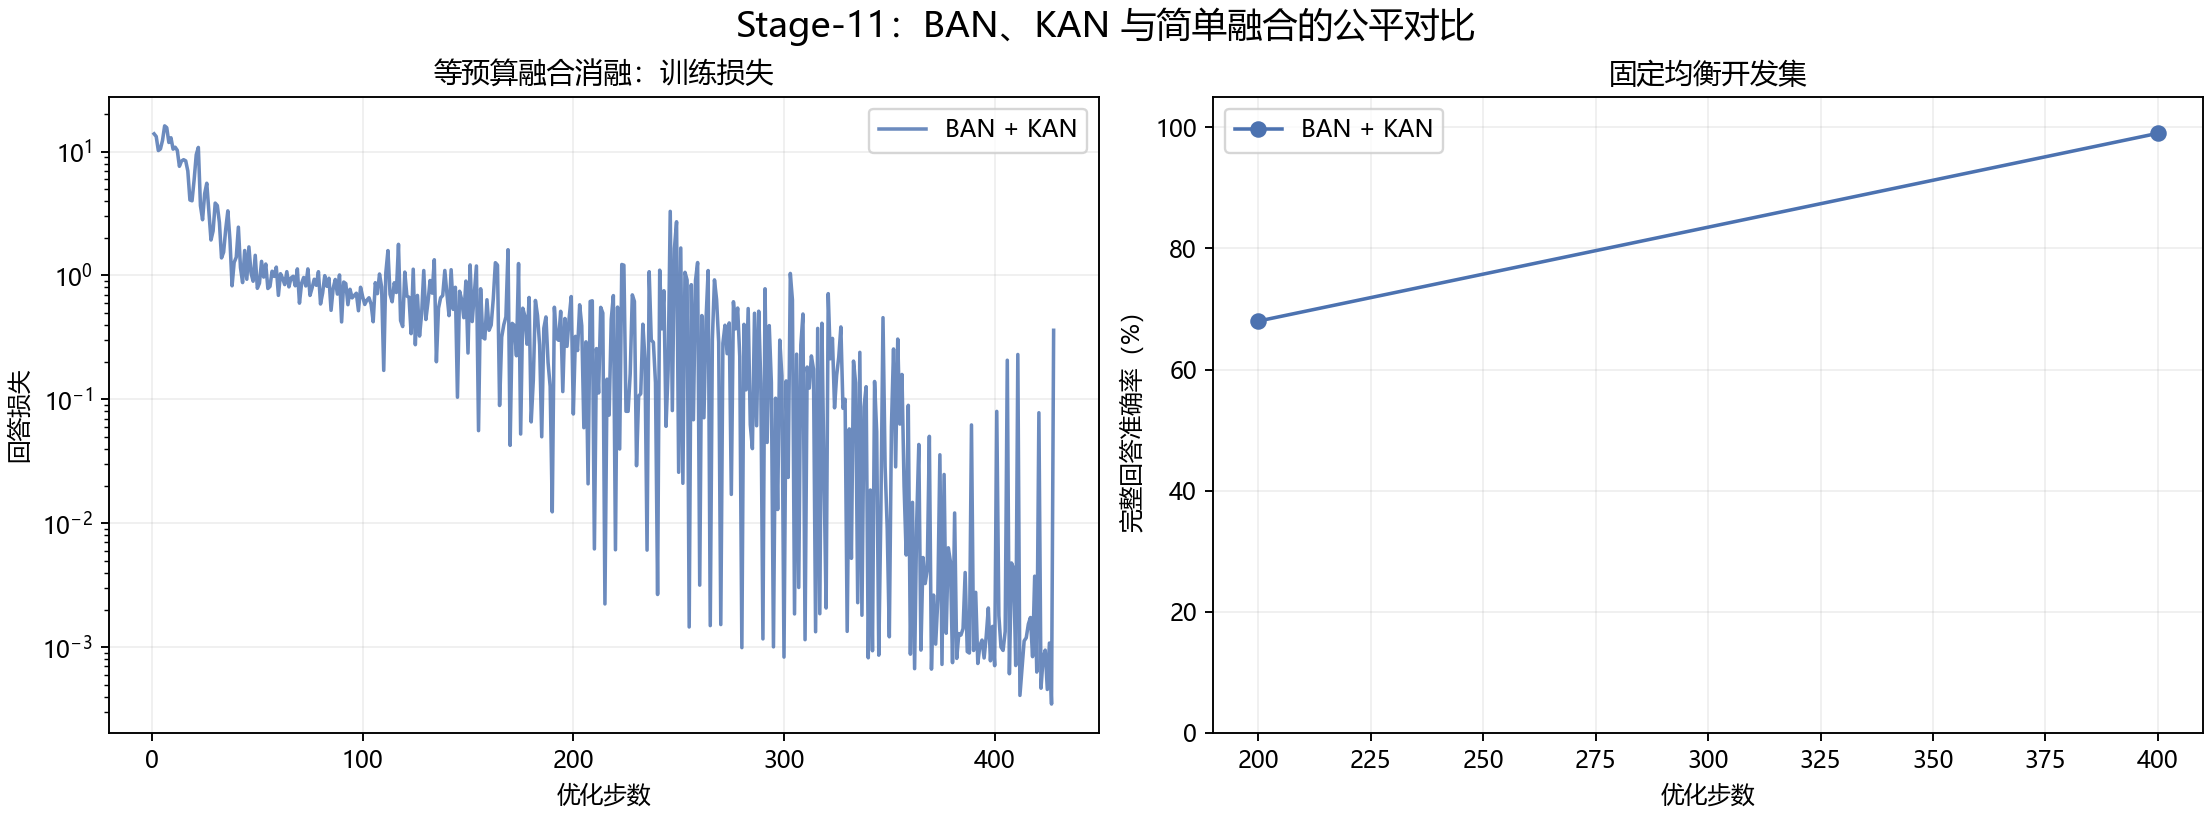
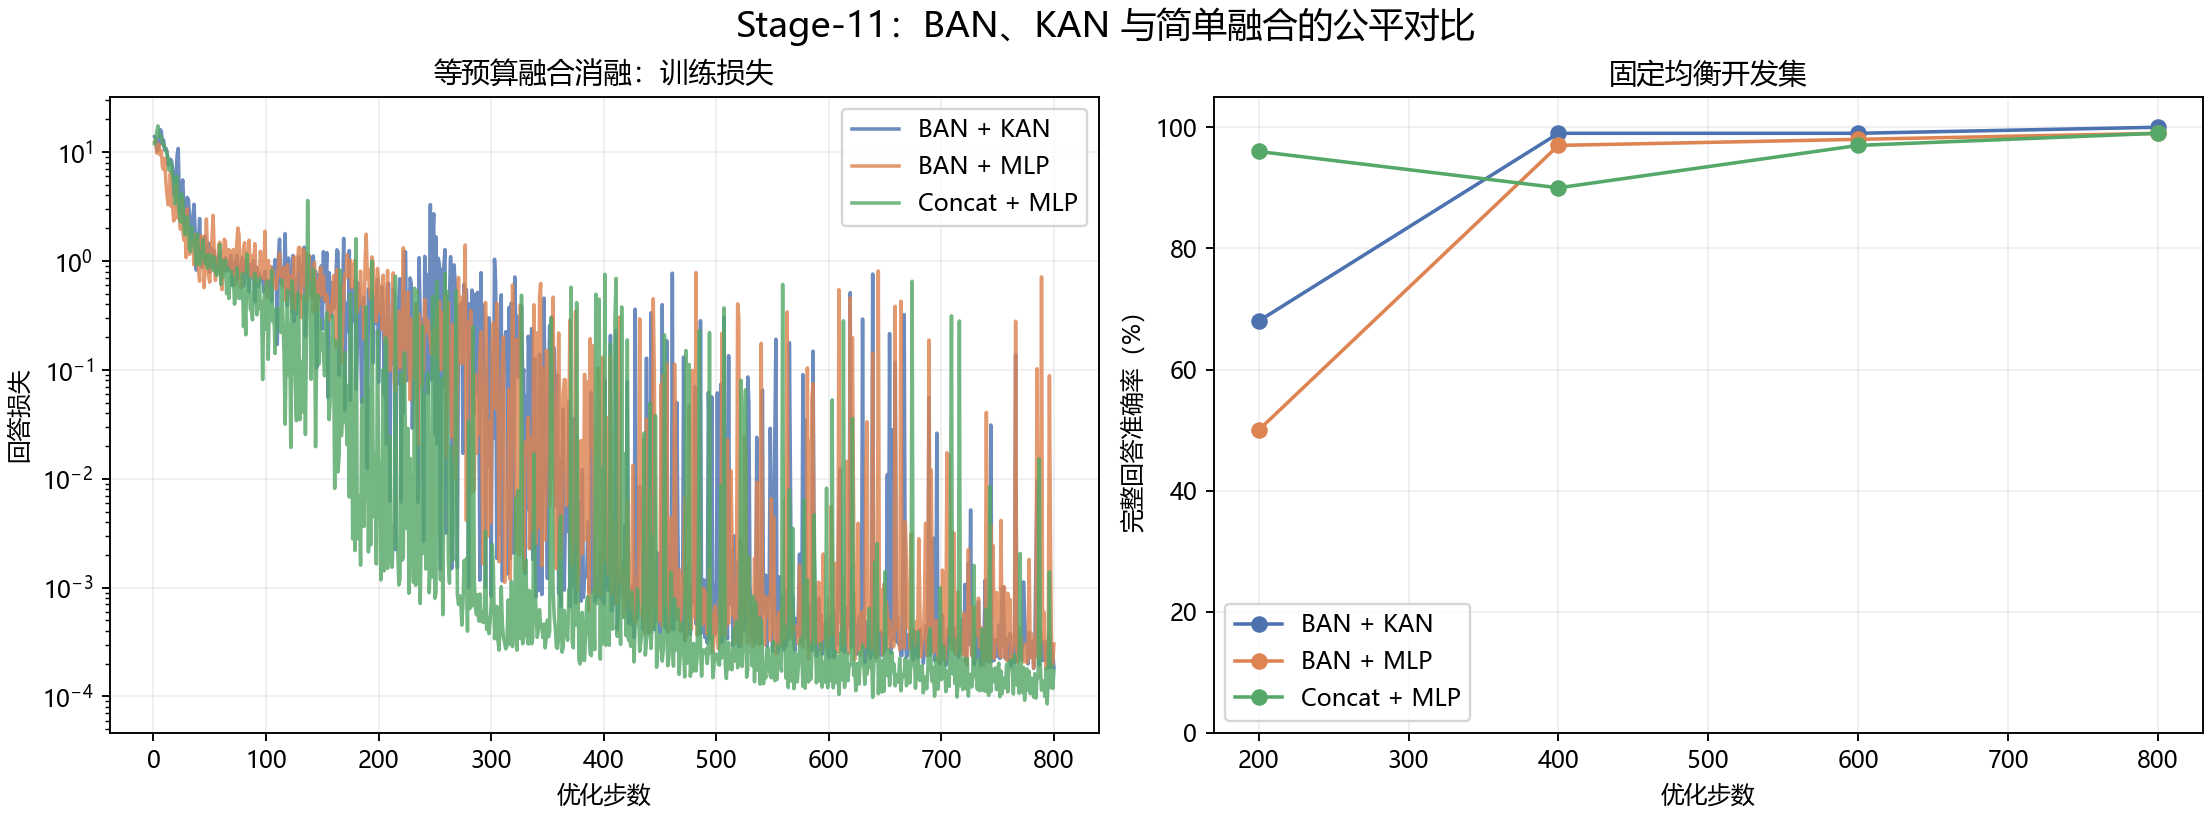
Complete Stage 11 fusion ablation

diff --git a/report_stage11.py b/report_stage11.py
@@ -2,6 +2,7 @@
 from __future__ import annotations
 
 import argparse
+import collections
 import json
 from datetime import datetime
 from pathlib import Path
@@ -44,12 +45,19 @@ def read_history(path: Path):
     return [by_step[step] for step in sorted(by_step)]
 
 
+def read_raw_history(path: Path):
+    if not path.exists():
+        return []
+    return [json.loads(line) for line in path.read_text(encoding="utf-8").splitlines() if line.strip()]
+
+
 def collect():
     variants = []
     for key, label in VARIANTS:
         run = RUNS / f"stage11_ablation_{key}"
         cfg_path, status_path, results_path = run / "config.json", run / "status.json", run / "results.json"
         latest_validation_path = run / "latest_validation.json"
+        raw_hist = read_raw_history(run / "history.jsonl")
         hist = read_history(run / "history.jsonl")
         checks = [row for row in hist if "validation" in row]
         cfg = read_json(cfg_path) if cfg_path.exists() else None
@@ -69,6 +77,7 @@ def collect():
                 "elapsed_seconds": hist[-1].get("seconds") if hist else None,
                 "config": cfg,
                 "history": hist,
+                "raw_history": raw_hist,
                 "validations": checks,
                 "status": status,
                 "results": results,
@@ -217,7 +226,7 @@ def write_progress(variants, now, diagnostics):
     (ROOT / "STAGE11_PROGRESS.md").write_text(body.rstrip() + "\n", encoding="utf-8")
     serializable = []
     for item in variants:
-        serializable.append({k: v for k, v in item.items() if k not in ("history", "config", "results")})
+        serializable.append({k: v for k, v in item.items() if k not in ("history", "raw_history", "config", "results")})
     snapshot = {"generated_at": now, "protocol": "STAGE11_ABLATION_PROTOCOL.json", "variants": serializable,
                 "latest_diagnostics": diagnostics}
     (OUT / "latest_snapshot.json").write_text(json.dumps(snapshot, ensure_ascii=False, indent=2), encoding="utf-8")
@@ -262,9 +271,97 @@ def plot_progress(variants):
     plt.close(fig)
 
 
+def recovery_audit(variants):
+    audited = []
+    for item in variants:
+        groups = collections.defaultdict(list)
+        for row in item["raw_history"]:
+            groups[int(row["step"])].append(row)
+        expected = set(range(1, item["target_steps"] + 1))
+        missing = sorted(expected - set(groups))
+        extra = sorted(set(groups) - expected)
+        duplicates = {step: rows for step, rows in groups.items() if len(rows) > 1}
+        spreads = {
+            step: max(row["loss"] for row in rows) - min(row["loss"] for row in rows)
+            for step, rows in duplicates.items()
+        }
+        duplicate_validation_steps = [
+            step for step, rows in duplicates.items() if sum("validation" in row for row in rows) > 1
+        ]
+        validation_steps = [row["step"] for row in item["validations"]]
+        expected_validations = list(range(200, item["target_steps"] + 1, 200))
+        passed = (
+            not missing and not extra and len(groups) == item["target_steps"]
+            and max(spreads.values(), default=0.0) == 0.0
+            and not duplicate_validation_steps and validation_steps == expected_validations
+            and item["completed"] and item["results"] and item["results"].get("test_accessed") is False
+        )
+        audited.append(
+            {
+                "variant": item["key"],
+                "passed": passed,
+                "raw_rows": len(item["raw_history"]),
+                "unique_steps": len(groups),
+                "missing_steps": missing,
+                "extra_steps": extra,
+                "duplicate_step_count": len(duplicates),
+                "duplicate_row_count": sum(len(rows) - 1 for rows in duplicates.values()),
+                "duplicate_step_range": [min(duplicates), max(duplicates)] if duplicates else None,
+                "max_duplicate_loss_spread": max(spreads.values(), default=0.0),
+                "duplicate_validation_steps": duplicate_validation_steps,
+                "validation_steps": validation_steps,
+                "test_accessed": item["results"].get("test_accessed") if item["results"] else None,
+            }
+        )
+    return {"all_passed": all(row["passed"] for row in audited), "variants": audited}
+
+
+def plot_final_comparison(variants):
+    FIGURES.mkdir(parents=True, exist_ok=True)
+    labels = [item["label"] for item in variants]
+    colors = ["#4c72b0", "#dd8452", "#55a868"]
+    best = [best_validation(item["validations"])["validation"] for item in variants]
+    controls = [
+        {row["variant"]: row for row in item["results"]["validation_controls"]}
+        for item in variants
+    ]
+    fig, axes = plt.subplots(1, 3, figsize=(16, 5), layout="constrained")
+    bars = axes[0].bar(labels, [row["loss"] for row in best], color=colors)
+    axes[0].bar_label(bars, fmt="%.4f")
+    axes[0].set(title="最佳开发验证损失", ylabel="回答损失", yscale="log")
+    axes[0].grid(axis="y", alpha=0.2)
+    bars = axes[1].bar(labels, [100 * row["exact_match"] for row in best], color=colors)
+    axes[1].bar_label(bars, fmt="%.1f%%")
+    axes[1].set(title="最佳完整回答准确率", ylabel="准确率（%）", ylim=(90, 101.5))
+    axes[1].grid(axis="y", alpha=0.2)
+    x = list(range(len(labels)))
+    width = 0.24
+    for offset, key, name, color in [(-width, "correct", "正确特征", "#4c72b0"),
+                                      (0, "wrong_class", "错配特征", "#dd8452"),
+                                      (width, "zero", "零特征", "#999999")]:
+        values = [100 * control[key]["exact_match"] for control in controls]
+        axes[2].bar([value + offset for value in x], values, width, label=name, color=color)
+    axes[2].set_xticks(x, labels)
+    axes[2].set(title="最佳检查点视觉依赖控制", ylabel="准确率（%）", ylim=(0, 105))
+    axes[2].legend()
+    axes[2].grid(axis="y", alpha=0.2)
+    for axis in axes:
+        axis.tick_params(axis="x", rotation=15)
+    fig.suptitle("Stage-11 等预算融合消融最终比较", fontsize=15)
+    fig.savefig(FIGURES / "final_comparison.png", dpi=170)
+    plt.close(fig)
+
+
 def write_final(variants):
     if not all(item["completed"] and item["results"] for item in variants):
         return False
+    audit = recovery_audit(variants)
+    if not audit["all_passed"]:
+        raise RuntimeError("Stage-11 recovery audit failed; refusing final report")
+    (ROOT / "STAGE11_RECOVERY_AUDIT.json").write_text(
+        json.dumps(audit, ensure_ascii=False, indent=2) + "\n", encoding="utf-8"
+    )
+    plot_final_comparison(variants)
     summary_rows, control_rows = [], []
     for item in variants:
         best = best_validation(item["validations"])
@@ -281,6 +378,19 @@ def write_final(variants):
             [item["label"]]
             + [f'{100 * controls[key]["exact_match"]:.2f}%' for key in ("correct", "wrong_class", "zero")]
         )
+    winner = min(variants, key=lambda item: (
+        best_validation(item["validations"])["validation"]["loss"],
+        -best_validation(item["validations"])["validation"]["exact_match"],
+    ))
+    winner_best = best_validation(winner["validations"])["validation"]
+    audit_rows = [
+        [
+            next(item["label"] for item in variants if item["key"] == row["variant"]),
+            row["raw_rows"], row["unique_steps"], row["duplicate_row_count"],
+            f'{row["max_duplicate_loss_spread"]:.1f}', "通过" if row["passed"] else "失败",
+        ]
+        for row in audit["variants"]
+    ]
     report = f"""# Stage-11：双视觉融合模块的等预算消融
 
 ## 实验问题
@@ -293,20 +403,33 @@ def write_final(variants):
 
 {markdown_table(['结构', '最佳步数', '最佳验证损失', '完整回答准确率', '可训练参数', '训练耗时'], summary_rows)}
 
+![最终融合消融比较](figures/stage11/final_comparison.png)
+
+按预先冻结的“最低验证损失，其次最高完整回答准确率”规则，胜出结构为**{winner['label']}**：第{winner['results']['best_step']}步验证损失{winner_best['loss']:.6f}、准确率{100 * winner_best['exact_match']:.2f}%。相较BAN+MLP，它增加{winner['config']['parameters']['trainable_parameters'] - variants[1]['config']['parameters']['trainable_parameters']:,}个可训练参数；相较Concat+MLP增加{winner['config']['parameters']['trainable_parameters'] - variants[2]['config']['parameters']['trainable_parameters']:,}个。
+
 ## 视觉依赖控制
 
 {markdown_table(['结构', '正确视觉特征', '错配类别特征', '零视觉特征'], control_rows)}
 
 正确特征高、错配特征与零特征低，才能说明回答依赖视觉输入，而不是只由问题模板或语言先验决定。具体预测和目标保留在各运行目录的 `results.json` 中。
 
+## 恢复轨迹审计
+
+{markdown_table(['结构', '原始日志行', '唯一训练步', '重算行', '重算损失最大差异', '结论'], audit_rows)}
+
+BAN+KAN和BAN+MLP在任务计划恢复时重算了最近检查点之后的少量步骤；所有重算步损失逐值一致，验证点没有重复，去重后均完整覆盖1–800。Concat+MLP没有重复步骤。详细机器可读证据见`STAGE11_RECOVERY_AUDIT.json`。
+
 ## 结论边界
 
-Stage-11 是开发集消融，不能当成新的盲测结果。Stage-10 最终测试集已被消费，本阶段没有再次读取它，也不使用它选择结构。视觉编码器使用 ImageNet 预训练权重，Imagenette 属于 ImageNet 子集，因此这些结果不能支持“视觉主干从未见过同分布数据”的说法。实现是论文结构的独立近似复现，不是作者权重或私有训练流程的精确回放。
+Stage-11 是开发集消融，不能当成新的盲测结果。三种结构只运行一个训练随机种子，且开发集只有100张图；1个百分点的准确率差异不足以单独支持统计显著性结论。较低验证损失支持在当前配置下选择BAN+KAN，但不能证明BAN或KAN在其他任务、数据和信道中必然更优。Stage-10最终测试集已被消费，本阶段没有再次读取它，也不使用它选择结构。视觉编码器使用ImageNet预训练权重，Imagenette属于ImageNet子集，因此这些结果不能支持“视觉主干从未见过同分布数据”的说法。实现是论文结构的独立近似复现，不是作者权重或私有训练流程的精确回放。
 """
     (ROOT / "STAGE11_ABLATION_REPORT.md").write_text(report, encoding="utf-8")
     final = {
         "protocol": "STAGE11_ABLATION_PROTOCOL.json",
         "all_completed": True,
+        "selected_variant": winner["key"],
+        "selection_rule": "minimum validation loss, then maximum exact match",
+        "recovery_audit": audit,
         "test_accessed": False,
         "variants": [
             {

diff --git a/STAGE11_ABLATION_REPORT.md b/STAGE11_ABLATION_REPORT.md
@@ -1,0 +1,46 @@
+# Stage-11：双视觉融合模块的等预算消融
+
+## 实验问题
+
+本阶段检验论文近似结构中的 BAN 和 KAN 是否在相同数据、随机种子、优化器、LoRA 配置、语义信道维度和 800 步训练预算下带来可测收益。比较 BAN+KAN、BAN+MLP、Concat+MLP 三种融合器。所有模型选择只使用固定的 100 张十类均衡开发图像。
+
+![训练与开发验证曲线](figures/stage11/progress.png)
+
+## 主要结果
+
+| 结构 | 最佳步数 | 最佳验证损失 | 完整回答准确率 | 可训练参数 | 训练耗时 |
+|---|---|---|---|---|---|
+| BAN + KAN | 800 | 0.001940 | 100.00% | 2,232,128 | 0.61 h |
+| BAN + MLP | 800 | 0.007914 | 99.00% | 2,150,400 | 0.61 h |
+| Concat + MLP | 800 | 0.010666 | 99.00% | 2,125,504 | 0.34 h |
+
+
+![最终融合消融比较](figures/stage11/final_comparison.png)
+
+按预先冻结的“最低验证损失，其次最高完整回答准确率”规则，胜出结构为**BAN + KAN**：第800步验证损失0.001940、准确率100.00%。相较BAN+MLP，它增加81,728个可训练参数；相较Concat+MLP增加106,624个。
+
+## 视觉依赖控制
+
+| 结构 | 正确视觉特征 | 错配类别特征 | 零视觉特征 |
+|---|---|---|---|
+| BAN + KAN | 100.00% | 0.00% | 10.00% |
+| BAN + MLP | 99.00% | 0.00% | 10.00% |
+| Concat + MLP | 99.00% | 0.00% | 8.00% |
+
+
+正确特征高、错配特征与零特征低，才能说明回答依赖视觉输入，而不是只由问题模板或语言先验决定。具体预测和目标保留在各运行目录的 `results.json` 中。
+
+## 恢复轨迹审计
+
+| 结构 | 原始日志行 | 唯一训练步 | 重算行 | 重算损失最大差异 | 结论 |
+|---|---|---|---|---|---|
+| BAN + KAN | 805 | 800 | 5 | 0.0 | 通过 |
+| BAN + MLP | 857 | 800 | 57 | 0.0 | 通过 |
+| Concat + MLP | 800 | 800 | 0 | 0.0 | 通过 |
+
+
+BAN+KAN和BAN+MLP在任务计划恢复时重算了最近检查点之后的少量步骤；所有重算步损失逐值一致，验证点没有重复，去重后均完整覆盖1–800。Concat+MLP没有重复步骤。详细机器可读证据见`STAGE11_RECOVERY_AUDIT.json`。
+
+## 结论边界
+
+Stage-11 是开发集消融，不能当成新的盲测结果。三种结构只运行一个训练随机种子，且开发集只有100张图；1个百分点的准确率差异不足以单独支持统计显著性结论。较低验证损失支持在当前配置下选择BAN+KAN，但不能证明BAN或KAN在其他任务、数据和信道中必然更优。Stage-10最终测试集已被消费，本阶段没有再次读取它，也不使用它选择结构。视觉编码器使用ImageNet预训练权重，Imagenette属于ImageNet子集，因此这些结果不能支持“视觉主干从未见过同分布数据”的说法。实现是论文结构的独立近似复现，不是作者权重或私有训练流程的精确回放。

diff --git a/README.md b/README.md
@@ -1,6 +1,6 @@
 # TokCom 与 TaiChi：复现工程
 
-**第十一阶段等预算融合消融正在运行：** 已冻结BAN+KAN、BAN+MLP、Concat+MLP三组公平对比协议，每组使用同一8,000张训练图、固定100张均衡开发图、800步和有效批量8。首次BAN+KAN运行在产生正式验证与检查点之前意外停止，已作为中断诊断归档并排除出比较。恢复版每50步保存优化器、调度器、RNG和可训练权重，由Windows任务计划程序托管并在异常退出后从最近检查点继续；每200步验证的科学协议和总预算不变。四小时任务更新[STAGE11_PROGRESS.md](STAGE11_PROGRESS.md)与`figures/stage11/progress.png`，三组完成后生成`STAGE11_ABLATION_REPORT.md`。本阶段不读取已经消费的Stage-10最终测试集。
+**第十一阶段等预算融合消融已完成：** BAN+KAN、BAN+MLP、Concat+MLP均使用同一8,000张训练图、100张均衡开发图、800步和有效批量8。按冻结的最低验证损失规则，BAN+KAN以0.001940和100%胜出；BAN+MLP为0.007914/99%，Concat+MLP为0.010666/99%。三者错配视觉特征均为0%，零特征为8%–10%。恢复审计证明三组都完整覆盖1–800步，重算步损失逐值一致，Stage-10最终测试集未读取。详见[STAGE11_ABLATION_REPORT.md](STAGE11_ABLATION_REPORT.md)、[STAGE11_RECOVERY_AUDIT.json](STAGE11_RECOVERY_AUDIT.json)和[STAGE11_PROGRESS.md](STAGE11_PROGRESS.md)。
 
 **统一通信开销已完成可执行核算：** [COMMUNICATION_BUDGET_REPORT.md](COMMUNICATION_BUDGET_REPORT.md)分别报告离散token源码率、CRC/FEC后的编码比特和复信道符号，并明确连续TaiChi语义向量在没有量化器时不能换算为bpp。公开VQGAN规格配合当前参考数字链路为2,560源比特、7,936编码比特和1,984个复符号；Stage-10/11 TaiChi为1,024个实信道值，即512个复符号。两条链路任务不同，该数值只用于工程核算，不作为性能优劣结论。
 

diff --git a/STAGE11_PROGRESS.md b/STAGE11_PROGRESS.md
@@ -1,23 +1,23 @@
 # Stage-11 四小时推进快照
 
-- 生成时间：2026-10-05T12:50:41+08:00
+- 生成时间：2026-10-05T20:07:29+08:00
 - 协议：`STAGE11_ABLATION_PROTOCOL.json`
 - 数据边界：仅使用训练集与固定开发验证集；Stage-10 最终测试集不参与结构选择。
 
 | 结构 | 状态 | 步数 | 最近训练损失 | 当前最佳验证损失 | 当前最佳准确率 |
 |---|---|---|---|---|---|
-| BAN + KAN | 训练中 | 428/800 | 0.360941 | 0.009316 | 99.00% |
-| BAN + MLP | 等待自动接力 | 0/800 | — | — | — |
-| Concat + MLP | 等待自动接力 | 0/800 | — | — | — |
+| BAN + KAN | 完成 | 800/800 | 0.000183 | 0.001940 | 100.00% |
+| BAN + MLP | 完成 | 800/800 | 0.000302 | 0.007914 | 99.00% |
+| Concat + MLP | 完成 | 800/800 | 0.000171 | 0.010666 | 99.00% |
 
 
-下一动作：继续 BAN + KAN 至第 800 步；每 200 步固定开发验证。
+下一动作：三组实验已结束，生成最终公平消融报告。
 
 该快照是运行状态证据。只有 `status.json` 中 `completed=true` 才计为该结构完成；训练中间结果不用于提前改变冻结预算。
 
 ## 最近一次固定开发验证
 
-结构：BAN + KAN；步数：400；损失：0.009316；完整回答准确率：99.00%。
+结构：Concat + MLP；步数：800；损失：0.010666；完整回答准确率：99.00%。
 
 | 类别 | 正确 | 样本 | 准确率 |
 |---|---|---|---|
@@ -25,11 +25,11 @@
 | english springer | 10 | 10 | 100.0% |
 | cassette player | 10 | 10 | 100.0% |
 | chain saw | 10 | 10 | 100.0% |
-| church | 9 | 10 | 90.0% |
+| church | 10 | 10 | 100.0% |
 | french horn | 10 | 10 | 100.0% |
 | garbage truck | 10 | 10 | 100.0% |
 | gas pump | 10 | 10 | 100.0% |
-| golf ball | 10 | 10 | 100.0% |
+| golf ball | 9 | 10 | 90.0% |
 | parachute | 10 | 10 | 100.0% |
 
 
